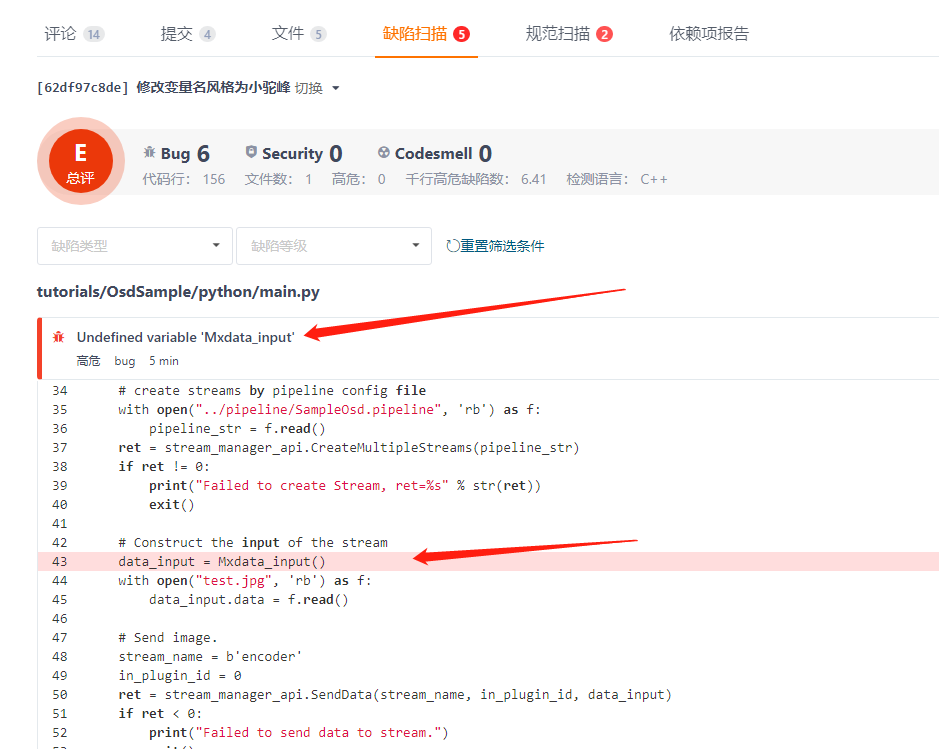
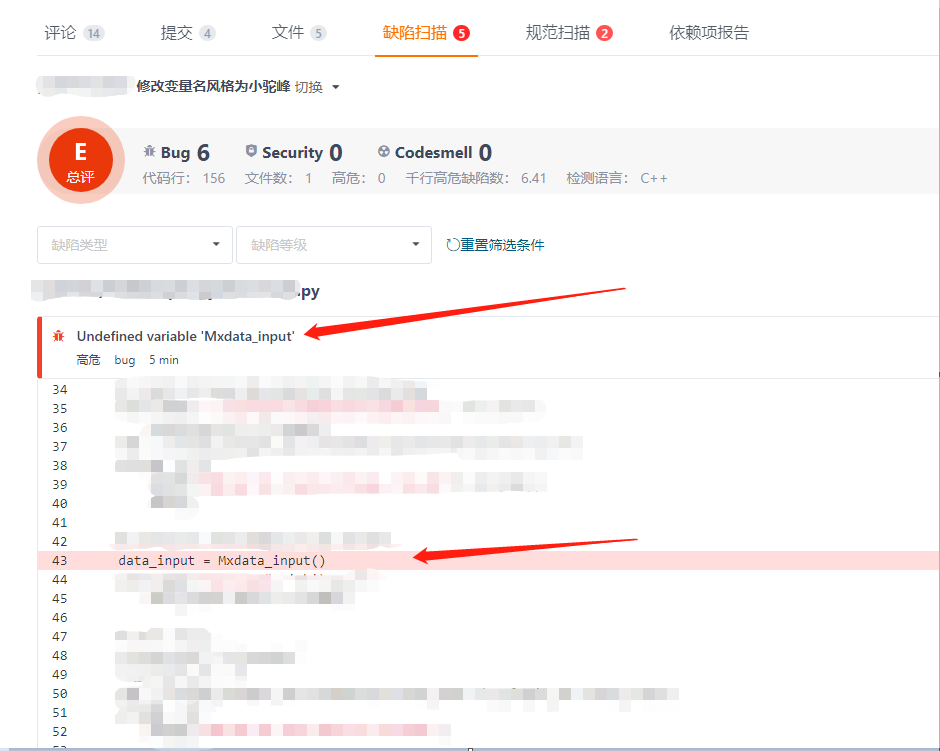
【修改说明 Modification】 屏蔽敏感信息，修改跳转链接，修改示例 【修改人 Modifier】 唐红艳

diff --git a/docs/quickStart/mxBase 图像检测样例运行.md b/docs/quickStart/mxBase 图像检测样例运行.md
@@ -1,6 +1,6 @@
 ## 5.1.1 样例介绍
 本开发样例是基于mxBase开发的端到端推理的C++应用程序，可在昇腾芯片上进行 yolov3 目标检测，并把可视化结果保存到本地。
-[样例获取](https://gitee.com/ascend/mindxsdk-referenceapps/tree/master/tutorials/MxbaseDetectionSample)
+[样例获取](https://gitee.com/ascend/mindxsdk-referenceapps/tree/master/tutorials/mxBaseSample)
 该Sample的主要处理流程为：
 Init > ReadImage >Resize > Inference >PostProcess >DeInit
 

diff --git a/docs/代码提交指导/PR门禁指导.md b/docs/代码提交指导/PR门禁指导.md
@@ -37,9 +37,9 @@ eg:
 
 ```
 SAMPLE_FOLDER=(
-	/test1/
-	/test2/
-	/test3/
+	test1/
+	test2/
+	test3/
 )
 ```
 
